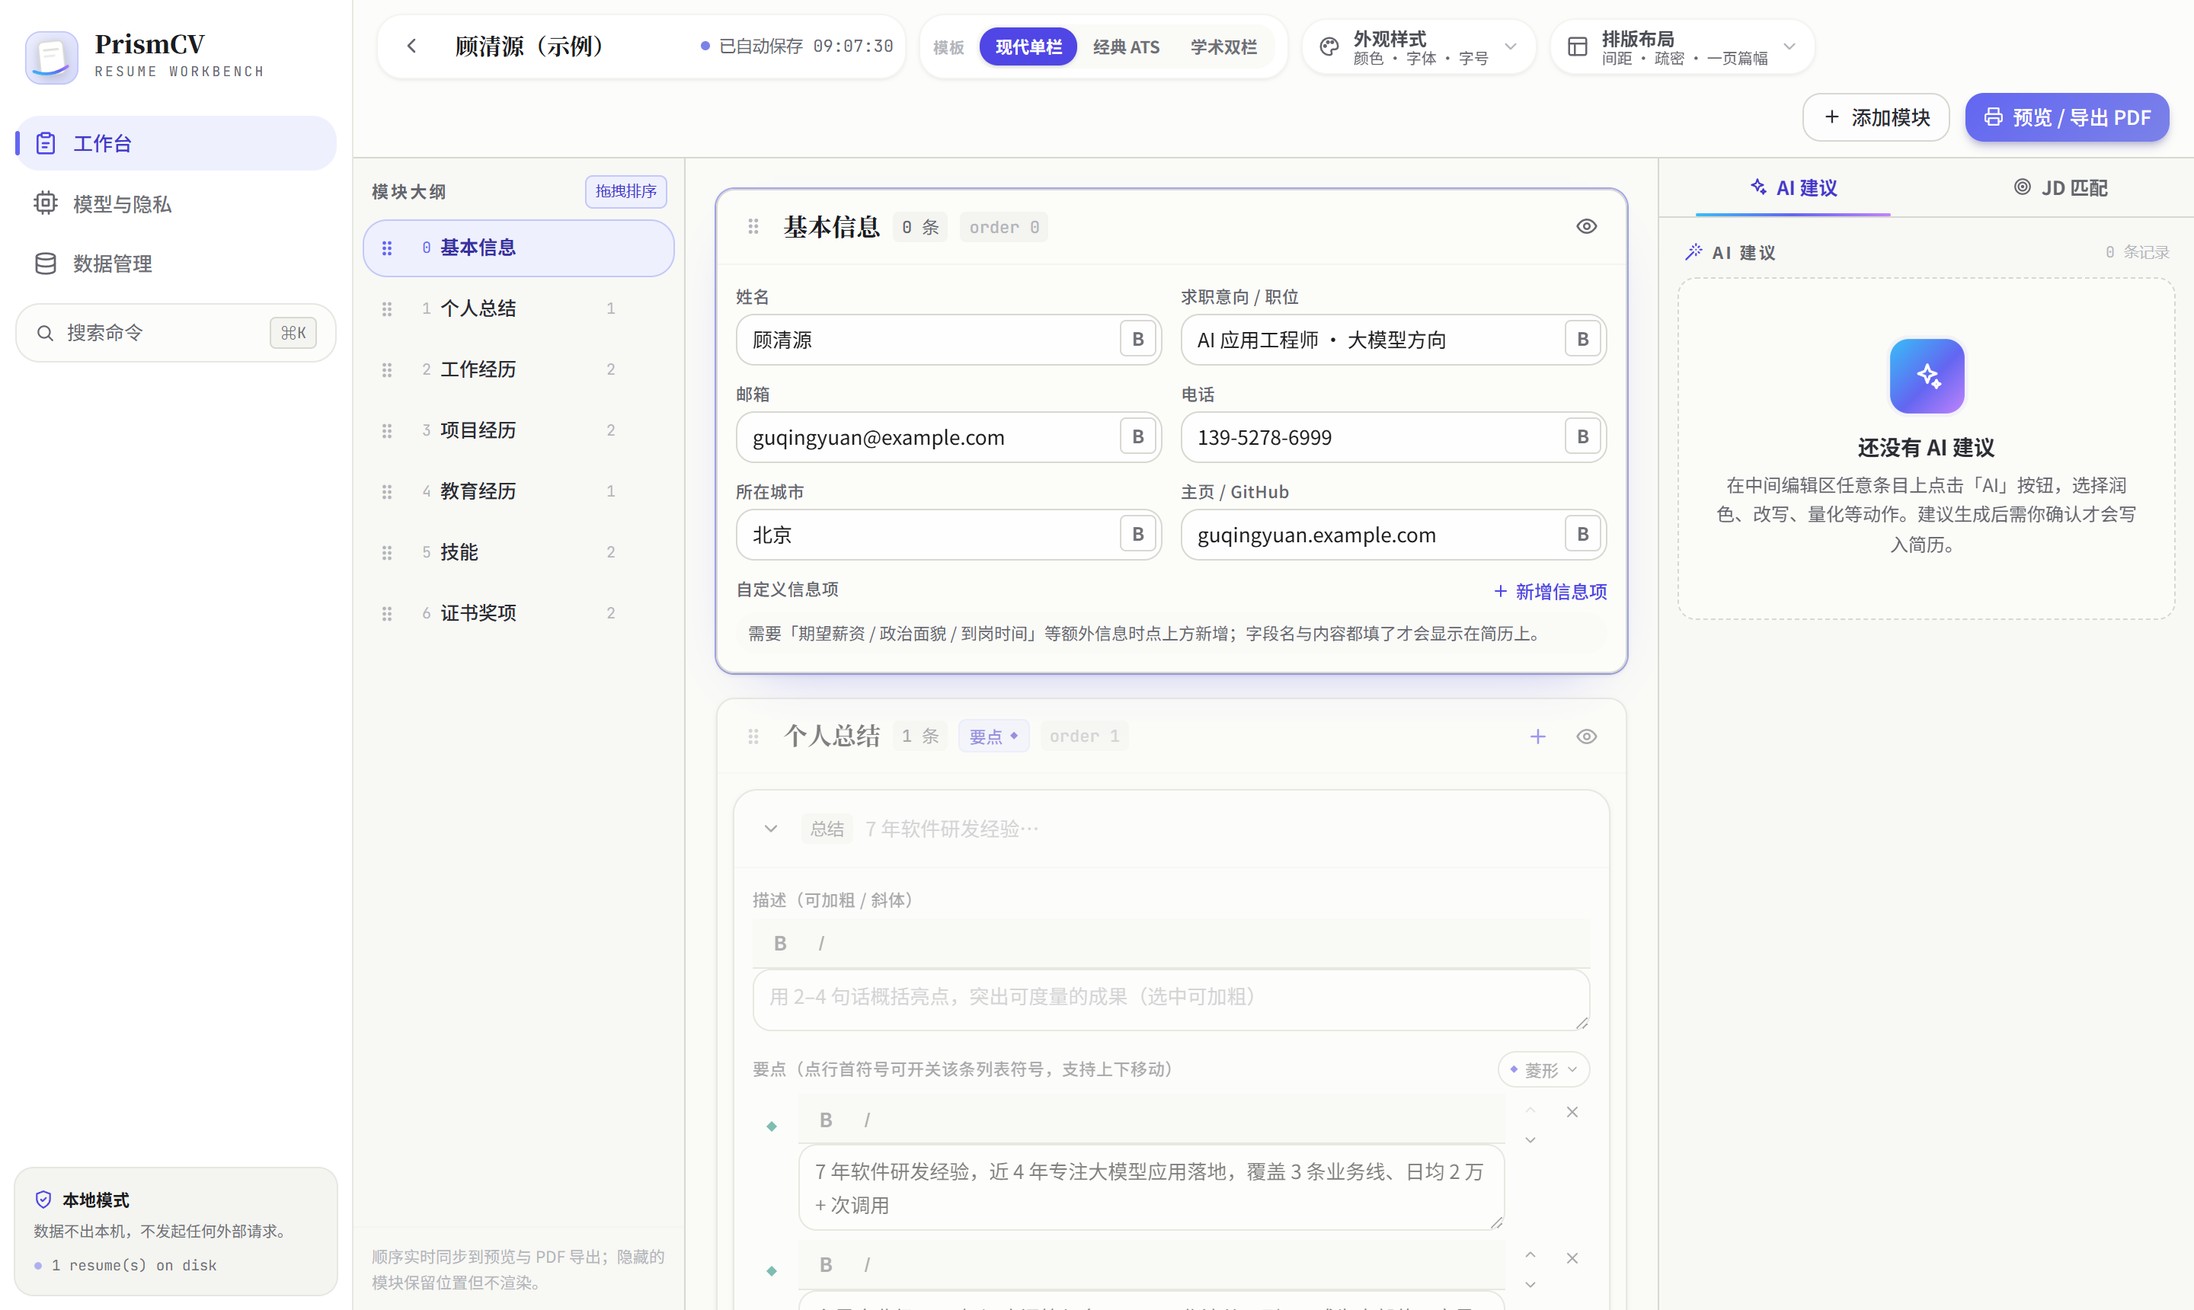
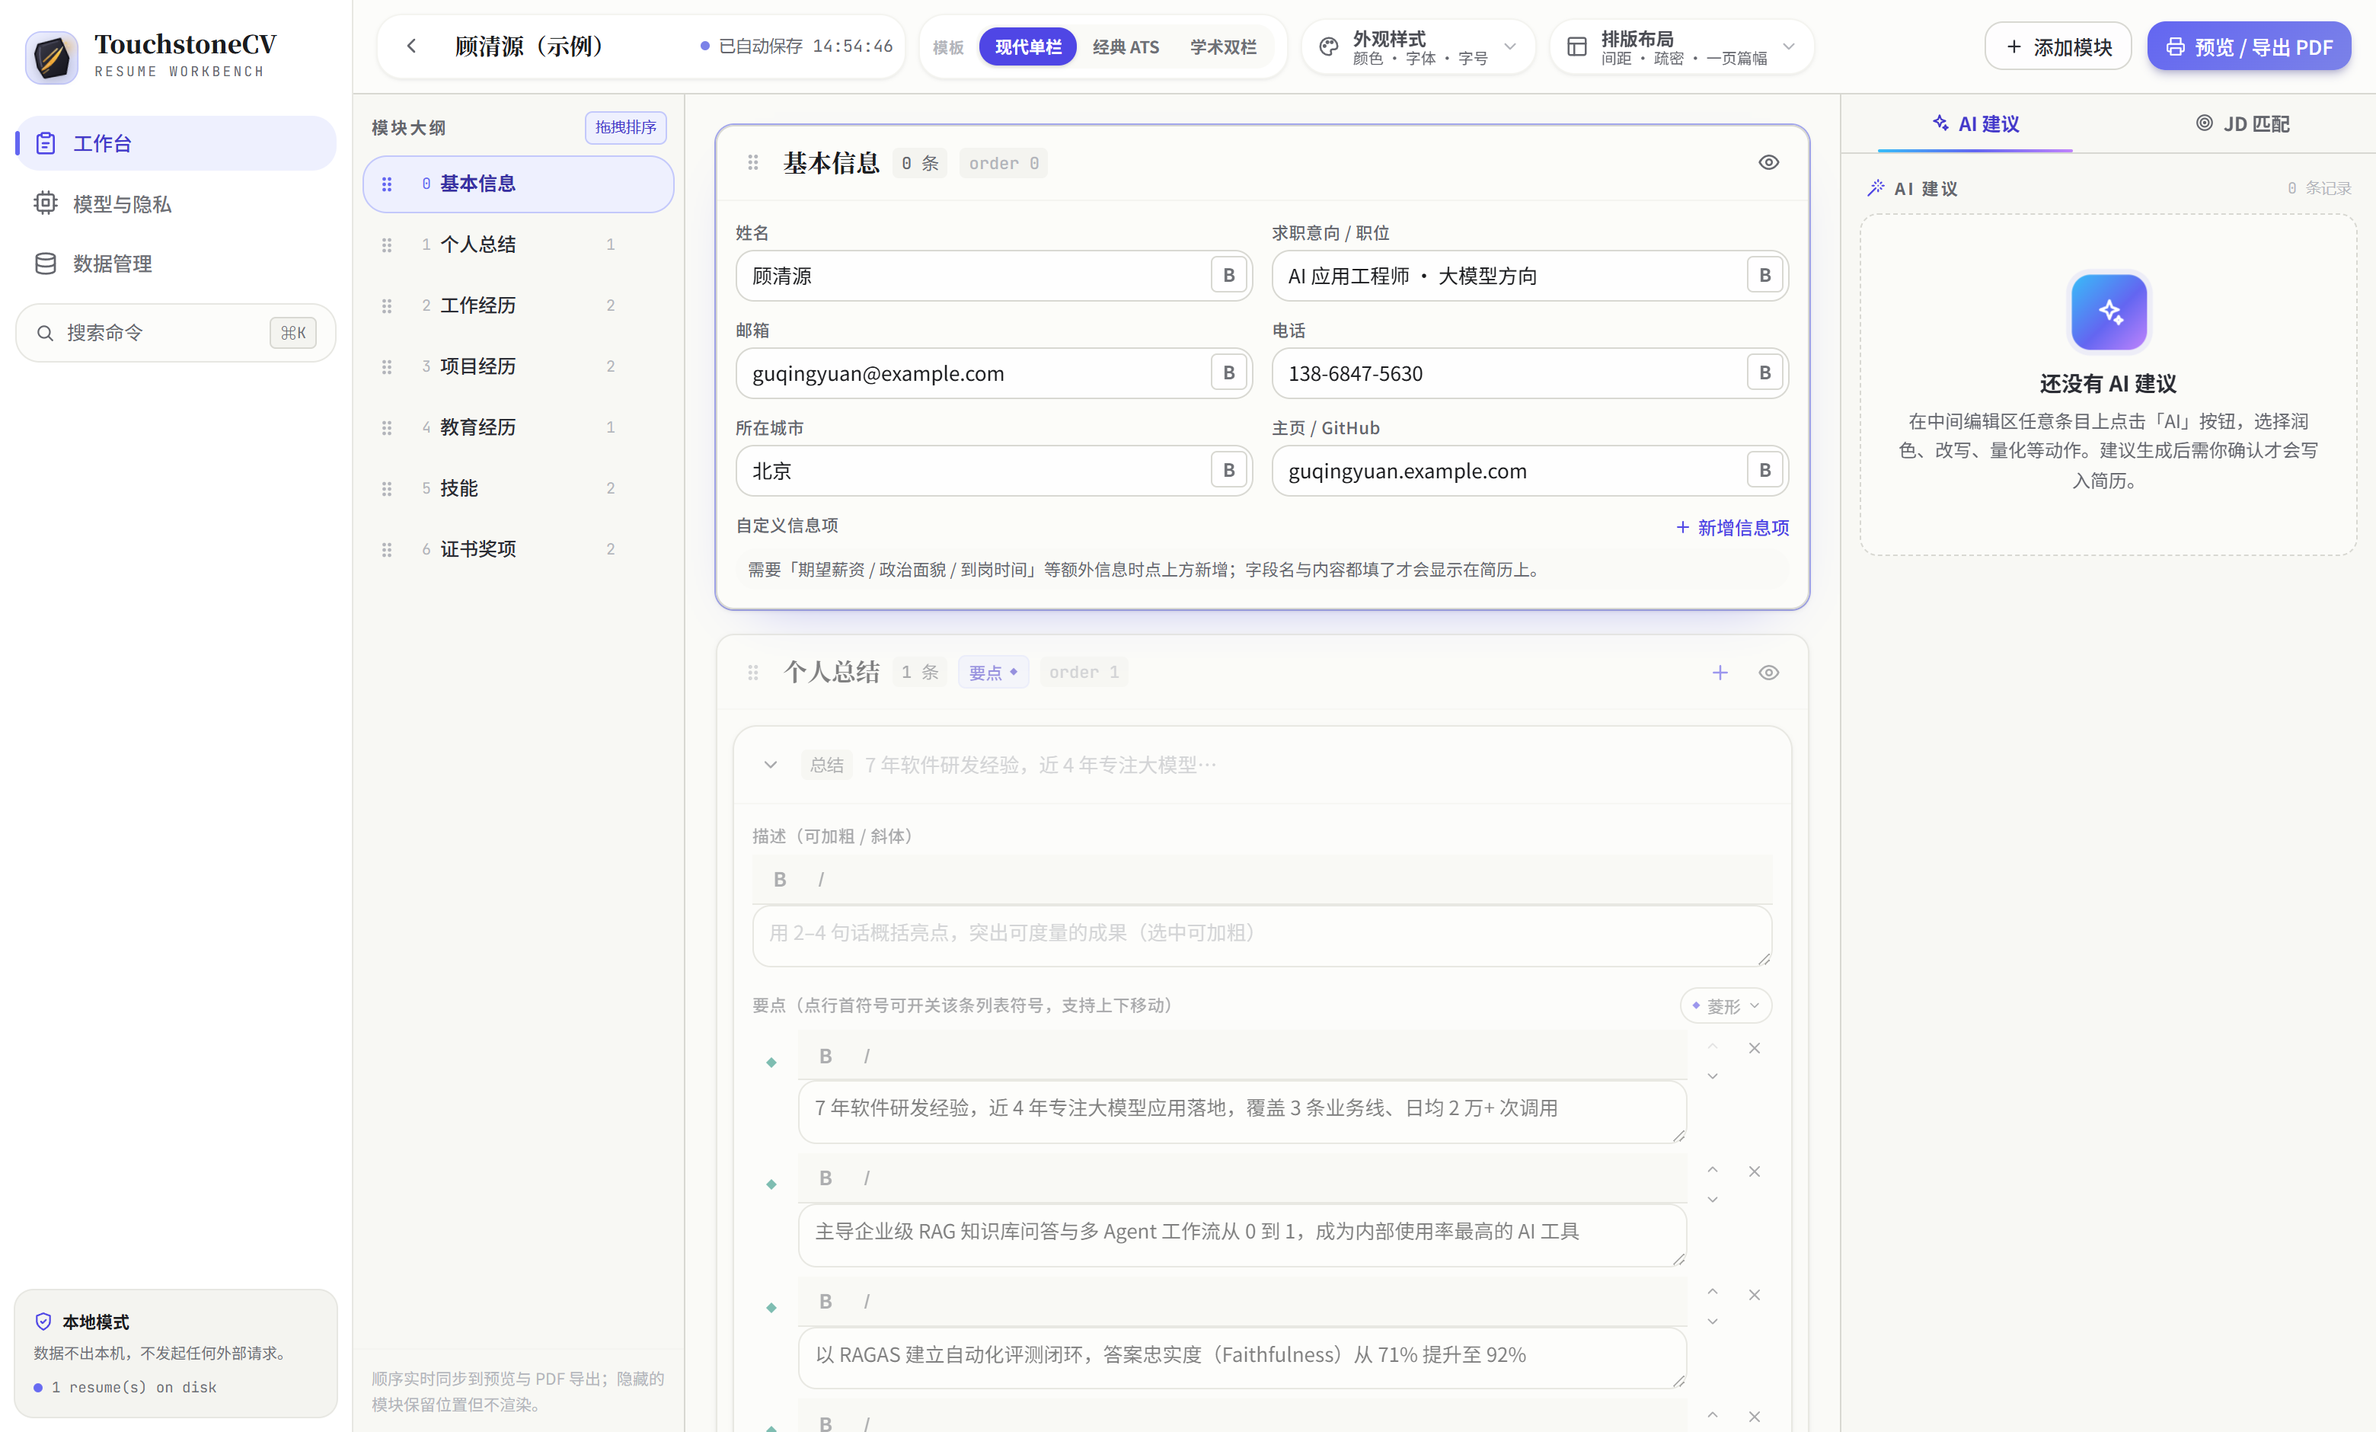
rename(brand): PrismCV → TouchstoneCV，重设计试金石视觉并同步文档
仓库已在 GitHub 重命名，本提交同步全站品牌与部署路径。

代码与构建
- App.tsx / Settings.tsx / index.html：品牌文字、meta description、title
- vite.config.js：base path /PrismCV/ → /TouchstoneCV/

Logo v6（棱镜 → 试金石）
- 石板改不规则岩块：直角矩形换七边形自然棱面，round 折角，左上两道棱边高光做体积
- 主划痕由 stroke 改 fill 闭合楔形：起笔 2.5 / 中段 3.2 / 收笔成尖，末端亮金
  ——stroke 画不出粗细变化，这是"死板→有笔锋"的关键
- 疏密节奏：主痕 + 副痕 + 碎痕三道不等，单线条永远显得单薄
- 三粒飞溅金屑落在主痕延长线上（物理上是擦下来的），hover 时 0/0.18/0.36s
  错相闪烁；三粒同步闪会机械
- 流动高光沿金痕掠过（替代原先"划痕自己在动"）
- 保留 block/block-hi/paper/ribbon 四个类名，index.css 的 hover 四层联动一行未改

图标
- favicon v3：根因是明度差不是尺寸——底块提亮至 #5B54E8→#312C8A、岩块压暗加
  #A9AFC4 亮描边、元素放大 1.15×、金痕中段 3.2→4.5；16px 做减法（删副痕碎痕、
  金屑 3→2 粒加大），小尺寸只承载一个主形状 + 一个主色块
- 新增 apple-touch-icon 180（满幅方形，内容内缩 10%——iOS 会自行切圆角，带 rx
  会出现双重圆角）与 favicon-32.png（老 Safari 与部分国内浏览器的 SVG 回落）
- 页面内 Logo 放大：侧边栏 36→44，移动端顶栏 24→28

文档
- README 全量品牌替换；新增英文介绍段（功能 + 隐私两段，与中文段同步维护）
- 「名称由来」由四段 260 字精简为中英各一句：删矿物学解释、抒情句与四维展开，
  只留"划痕知成色 → JD 是石头 → 只有你自己看到"这条链
- docs/screenshots 替换为当前版本（含新版 Logo 真实运行效果）

验证：tsc --noEmit 0 错误；vitest 59/59 通过；vite build 成功，
dist/index.html 路径为 /TouchstoneCV/assets/...

diff --git a/src/components/logo.tsx b/src/components/logo.tsx
@@ -1,20 +1,29 @@
 import { useId } from "react";
 
 /**
- * Logo「靛纸航标」Indigo Compass（设计 v1.4 Logo v4）
- * 靛蓝渐变底块（ind-50→ind-100 + 1px ind-200 描边）+ 白纸 -6° 微倾 + 一笔光谱丝带。
- * 隐喻「一张简历纸被 AI 光谱划过」。
- * Hover 四层联动由 index.css 的 .logo 系列规则驱动（底块加深 / 靛蓝光晕 / 纸片回正上浮 / 丝带流动）。
+ * Logo「试金石」Touchstone（v1.4 · Logo v6 · 灵动版）
+ *
+ * 相比 v5（矩形石板 + 等宽划痕）的改动：
+ * 1. 石板 → 不规则七边形岩块（自然棱面，不再是死板矩形）
+ * 2. 主划痕 → 起笔重、收笔尖的楔形 fill（真实擦痕的粗细变化），末端亮金
+ * 3. 加副划痕 + 短碎痕，形成疏密节奏而不是孤零零一条线
+ * 4. 加三粒飞溅金屑，落在划痕延长线上（灵动感的主要来源），hover 时错相闪烁
+ * 5. 划痕上叠一条流动高光细线（.ribbon），hover 时沿痕掠过
+ * 6. 划痕处向底块散出一圈暖光（halo），破掉底块的平板感
  *
  * 渐变 id 必须每实例唯一：页面会同时存在多个 Logo（移动顶栏 + 桌面侧栏），
  * 重复 id 时 url(#) 全部解析到 DOM 首个实例——桌面端它是 display:none 的移动
- * 顶栏，Chrome 对隐藏子树不产生 paint server，丝带/底块渐变会整体消失。
+ * 顶栏，Chrome 对隐藏子树不产生 paint server，划痕/底块渐变会整体消失。
  */
 export default function Logo({ size = 36 }: { size?: number }) {
   const uid = useId().replace(/[^a-zA-Z0-9]/g, "");
   const tint = `logo-ind-tint-${uid}`;
   const tintHi = `logo-ind-tint-hi-${uid}`;
-  const sp = `logo-sp-grad-${uid}`;
+  const stone = `logo-stone-${uid}`;
+  const gold = `logo-gold-grad-${uid}`;
+  const goldSoft = `logo-gold-soft-${uid}`;
+  const halo = `logo-halo-${uid}`;
+
   return (
     <svg className="logo" width={size} height={size} viewBox="0 0 40 40" aria-hidden="true" role="img">
       <defs>
@@ -26,20 +35,64 @@ export default function Logo({ size = 36 }: { size?: number }) {
           <stop offset="0" stopColor="#E0E3FD" />
           <stop offset="1" stopColor="#C3C8FB" />
         </linearGradient>
-        <linearGradient id={sp} x1="0" y1="1" x2="1" y2="0">
-          <stop offset="0" stopColor="#38BDF8" />
-          <stop offset="0.52" stopColor="#6366F1" />
-          <stop offset="1" stopColor="#C084FC" />
+        {/* 岩块：带一点蓝紫调的黑硅石，避免死黑 */}
+        <linearGradient id={stone} x1="0.15" y1="0" x2="0.85" y2="1">
+          <stop offset="0" stopColor="#3C3C49" />
+          <stop offset="0.55" stopColor="#24242E" />
+          <stop offset="1" stopColor="#17171F" />
         </linearGradient>
+        {/* 主划痕：起点陈金 → 末端刚擦出的亮金 */}
+        <linearGradient id={gold} x1="0.05" y1="0.95" x2="0.95" y2="0.1">
+          <stop offset="0" stopColor="#C97C10" />
+          <stop offset="0.42" stopColor="#F0A93A" />
+          <stop offset="0.78" stopColor="#F8C74A" />
+          <stop offset="1" stopColor="#FFF0BC" />
+        </linearGradient>
+        <linearGradient id={goldSoft} x1="0" y1="1" x2="1" y2="0">
+          <stop offset="0" stopColor="#E9A22F" />
+          <stop offset="1" stopColor="#FDDC8E" />
+        </linearGradient>
+        <radialGradient id={halo} cx="0.5" cy="0.5" r="0.5">
+          <stop offset="0" stopColor="#F5A623" stopOpacity="0.34" />
+          <stop offset="0.55" stopColor="#F5A623" stopOpacity="0.12" />
+          <stop offset="1" stopColor="#F5A623" stopOpacity="0" />
+        </radialGradient>
       </defs>
-      <rect className="block" x="1" y="1" width="38" height="38" rx="11" fill={`url(#${tint})`} stroke="#C3C8FB" strokeWidth="1" />
-      <rect className="block-hi" x="1" y="1" width="38" height="38" rx="11" fill={`url(#${tintHi})`} stroke="#C3C8FB" strokeWidth="1" opacity="0" />
+
+      <rect className="block" x="1" y="1" width="38" height="38" rx="11.5" fill={`url(#${tint})`} stroke="#C3C8FB" strokeWidth="1" />
+      <rect className="block-hi" x="1" y="1" width="38" height="38" rx="11.5" fill={`url(#${tintHi})`} stroke="#C3C8FB" strokeWidth="1" opacity="0" />
+
+      {/* 划痕处散出的暖光：压在岩块之下，只在底块上可见 */}
+      <circle cx="31.6" cy="11.8" r="10" fill={`url(#${halo})`} />
+
       <g className="paper">
-        <rect x="11" y="8" width="18" height="24" rx="3.5" fill="#FFFFFF" stroke="#D8D8D2" strokeWidth="1" />
-        <line x1="15" y1="14" x2="25" y2="14" stroke="#DEDEDA" strokeWidth="1.5" strokeLinecap="round" />
-        <line x1="15" y1="18.5" x2="22" y2="18.5" stroke="#EAEAE6" strokeWidth="1.5" strokeLinecap="round" />
+        {/* 试金石：不规则七边形岩块 */}
+        <path
+          d="M11.6 8.8 L28.2 6.8 L32.2 21.6 L28.6 32.8 L12.8 33.6 L9.0 25.4 L8.4 15.2 Z"
+          fill={`url(#${stone})`}
+          stroke="#111118"
+          strokeWidth="1.2"
+          strokeLinejoin="round"
+        />
+        {/* 左上受光的棱边高光，给岩块体积 */}
+        <path d="M12.6 11.4 Q 10.7 18.2 12.0 25.2" stroke="#63637A" strokeWidth="1.15" fill="none" strokeLinecap="round" opacity="0.8" />
+        <path d="M14.8 10.3 Q 20.2 9.0 26.0 8.5" stroke="#505064" strokeWidth="1" fill="none" strokeLinecap="round" opacity="0.65" />
+
+        {/* 左下短碎痕：反复试金留下的细擦痕 */}
+        <path d="M12.4 30.2 L 16.6 28.0" stroke={`url(#${goldSoft})`} strokeWidth="1" fill="none" strokeLinecap="round" opacity="0.5" />
+        {/* 副划痕：与主痕平行但更细更短，制造疏密 */}
+        <path d="M13.8 21.6 Q 19.2 18.0 24.8 13.9" stroke={`url(#${goldSoft})`} strokeWidth="1.25" fill="none" strokeLinecap="round" opacity="0.78" />
+
+        {/* 主划痕：起笔重 → 收笔尖的楔形 */}
+        <path d="M10.9 28.4 Q 21.8 26.4 29.8 12.2 Q 19.8 20.8 12.4 26.4 Z" fill={`url(#${gold})`} />
+        {/* 沿痕掠过的流动高光 */}
+        <path className="ribbon" d="M11.9 27.1 Q 21.0 23.5 29.6 12.4" stroke="#FFF7DD" strokeWidth="1.1" fill="none" strokeLinecap="round" opacity="0.34" />
+
+        {/* 飞溅的金屑：落在主痕延长线上，错相闪烁 */}
+        <circle className="spark" cx="31.7" cy="10.5" r="0.95" fill="#F8C74A" />
+        <circle className="spark" cx="33.5" cy="12.7" r="0.55" fill="#FFE9A8" style={{ animationDelay: "0.18s" }} />
+        <circle className="spark" cx="29.5" cy="8.5" r="0.6" fill="#F5B942" style={{ animationDelay: "0.36s" }} />
       </g>
-      <path className="ribbon" d="M7 30 Q 20 35 33 25" stroke={`url(#${sp})`} strokeWidth="2.2" fill="none" strokeLinecap="round" />
     </svg>
   );
 }

diff --git a/src/index.css b/src/index.css
@@ -321,9 +321,10 @@ body {
   background-image: linear-gradient(120deg, var(--color-sp-a), var(--color-sp-b), var(--color-sp-c));
 }
 
-/* ---------- Logo「靛纸航标」v4 ----------
+/* ---------- Logo「试金石」v6（灵动版） ----------
    底块加深用 .block-hi 叠加 opacity（fill 渐变间不可插值，不能用 transition:fill，见 MEMORY 坑 #2）。
-   纸片 rotate/translateY 与 drop-shadow 可插值，直接 transition。 */
+   岩块 rotate/translateY 与 drop-shadow 可插值，直接 transition。
+   金屑三粒用 .spark + inline animationDelay 错相，避免整组同步闪动的机械感。 */
 .logo {
   display: inline-flex;
   transition: filter 0.35s cubic-bezier(0.22, 1, 0.36, 1);
@@ -335,13 +336,20 @@ body {
 .logo .paper {
   transform-box: fill-box;
   transform-origin: center;
-  transform: rotate(-6deg);
+  transform: rotate(-8deg);
   transition: transform 0.45s cubic-bezier(0.22, 1, 0.36, 1), filter 0.45s cubic-bezier(0.22, 1, 0.36, 1);
   filter: drop-shadow(0 2px 4px rgba(27, 28, 31, 0.22));
 }
 .logo .ribbon {
-  stroke-dasharray: 26 9;
-  transition: stroke-width 0.3s cubic-bezier(0.22, 1, 0.36, 1);
+  opacity: 0.34;
+  stroke-dasharray: 7 18;
+  transition: stroke-width 0.3s cubic-bezier(0.22, 1, 0.36, 1), opacity 0.3s cubic-bezier(0.22, 1, 0.36, 1);
+}
+.logo .spark {
+  opacity: 0.5;
+  transform-box: fill-box;
+  transform-origin: center;
+  transition: opacity 0.3s cubic-bezier(0.22, 1, 0.36, 1);
 }
 .logo:hover {
   filter: drop-shadow(0 3px 10px rgba(79, 70, 229, 0.28));
@@ -355,13 +363,23 @@ body {
 }
 .logo:hover .ribbon {
   animation: logo-flow 1.1s linear infinite;
-  stroke-width: 2.8;
+  opacity: 1;
+  stroke-width: 1.5;
+}
+.logo:hover .spark {
+  opacity: 1;
+  animation: logo-spark 1.1s ease-in-out infinite;
 }
 @keyframes logo-flow {
-  to { stroke-dashoffset: -35; }
+  to { stroke-dashoffset: -25; }
 }
-/* reduced-motion：丝带停流、纸片保持 -6° 不回正（与全局降级叠加） */
+@keyframes logo-spark {
+  0%, 100% { transform: scale(1); }
+  50% { transform: scale(1.3); }
+}
+/* reduced-motion：高光停流、金屑静止、岩块保持 -8° 不回正（与全局降级叠加） */
 @media (prefers-reduced-motion: reduce) {
-  .logo:hover .paper { transform: rotate(-6deg); }
+  .logo:hover .paper { transform: rotate(-8deg); }
   .logo:hover .ribbon { animation: none; }
+  .logo:hover .spark { animation: none; }
 }

diff --git a/src/App.tsx b/src/App.tsx
@@ -95,8 +95,8 @@ function AppShell() {
         <button onClick={() => setDrawerOpen(true)} className="tool-btn" aria-label="打开导航菜单">
           <IconMenu size={18} />
         </button>
-        <Logo size={24} />
-        <span className="font-display text-[14px] font-black leading-none text-ink-900">PrismCV</span>
+        <Logo size={28} />
+        <span className="font-display text-[14px] font-black leading-none text-ink-900">TouchstoneCV</span>
       </div>
       {/* 抽屉遮罩 */}
       {drawerOpen && <div className="fixed inset-0 z-40 bg-ink-950/45 md:hidden" onClick={() => setDrawerOpen(false)} aria-hidden="true" />}
@@ -109,9 +109,9 @@ function AppShell() {
         )}
       >
         <div className="flex items-center gap-2.5 px-4 pb-5 pt-5">
-          <Logo size={36} />
+          <Logo size={44} />
           <div>
-            <p className="font-display text-[16px] font-black leading-none text-ink-900">PrismCV</p>
+            <p className="font-display text-[16px] font-black leading-none text-ink-900">TouchstoneCV</p>
             <p className="mt-1 font-mono text-[9px] uppercase tracking-[0.18em] text-ink-400">resume workbench</p>
           </div>
         </div>

diff --git a/index.html b/index.html
@@ -3,9 +3,11 @@
   <head>
     <meta charset="UTF-8" />
     <meta name="viewport" content="width=device-width, initial-scale=1.0" />
-    <meta name="description" content="PrismCV —— 本地优先、隐私优先的 AI 简历工作台：解析、编辑、JD 匹配、AI 建议、模板预览与 PDF 导出，数据不出本机。" />
+    <meta name="description" content="TouchstoneCV —— 本地优先、隐私优先的 AI 简历工作台：解析、编辑、JD 匹配、AI 建议、模板预览与 PDF 导出，数据不出本机。" />
     <link rel="icon" type="image/svg+xml" href="favicon.svg" />
-    <title>PrismCV · 本地 AI 简历工作台</title>
+    <link rel="icon" type="image/png" sizes="32x32" href="favicon-32.png" />
+    <link rel="apple-touch-icon" sizes="180x180" href="apple-touch-icon.png" />
+    <title>TouchstoneCV · 本地 AI 简历工作台</title>
     <!-- 字体采用非阻塞加载：即使外部网络不可用，页面也能立即渲染（本地优先） -->
     <link rel="preconnect" href="https://fonts.googleapis.com" />
     <link rel="preconnect" href="https://fonts.gstatic.com" crossorigin />

diff --git a/vite.config.js b/vite.config.js
@@ -2,12 +2,12 @@ import { defineConfig } from "vite";
 import react from "@vitejs/plugin-react";
 import tailwindcss from "@tailwindcss/vite";
 
-// 部署到 GitHub Pages 项目页（如 https://<user>.github.io/PrismCV/）时，
+// 部署到 GitHub Pages 项目页（如 https://<user>.github.io/TouchstoneCV/）时，
 // 资源必须挂在子路径下。fork 者若换仓库名，设环境变量 VITE_BASE_PATH 覆盖即可。
-const basePath = process.env.VITE_BASE_PATH || "/PrismCV/";
+const basePath = process.env.VITE_BASE_PATH || "/TouchstoneCV/";
 
 export default defineConfig({
-  // 构建产物前缀：本地 dev 用 /，GitHub Pages 用 /PrismCV/（或环境变量覆盖）
+  // 构建产物前缀：本地 dev 用 /，GitHub Pages 用 /TouchstoneCV/（或环境变量覆盖）
   base: process.env.NODE_ENV === "production" ? basePath : "/",
   plugins: [react(), tailwindcss()],
   server: {

diff --git a/src/pages/Settings.tsx b/src/pages/Settings.tsx
@@ -149,7 +149,7 @@ export default function Settings() {
       </section>
 
       <p className="text-center font-mono text-[10.5px] text-ink-300">
-        PrismCV · 本地优先 · 隐私默认保护 · 构建于 {new Date().getFullYear()}
+        TouchstoneCV · 本地优先 · 隐私默认保护 · 构建于 {new Date().getFullYear()}
       </p>
 
       <Confirm
